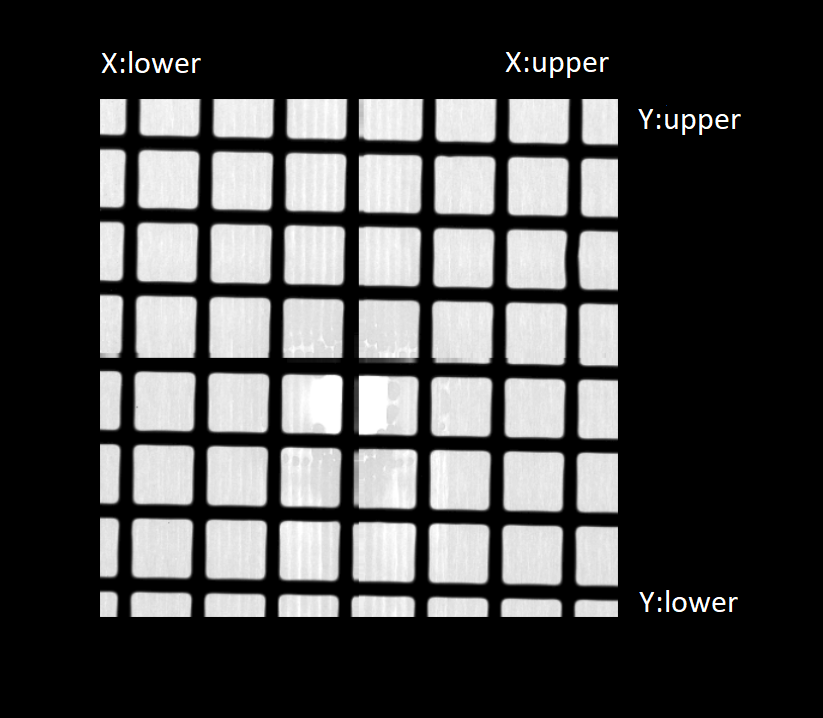
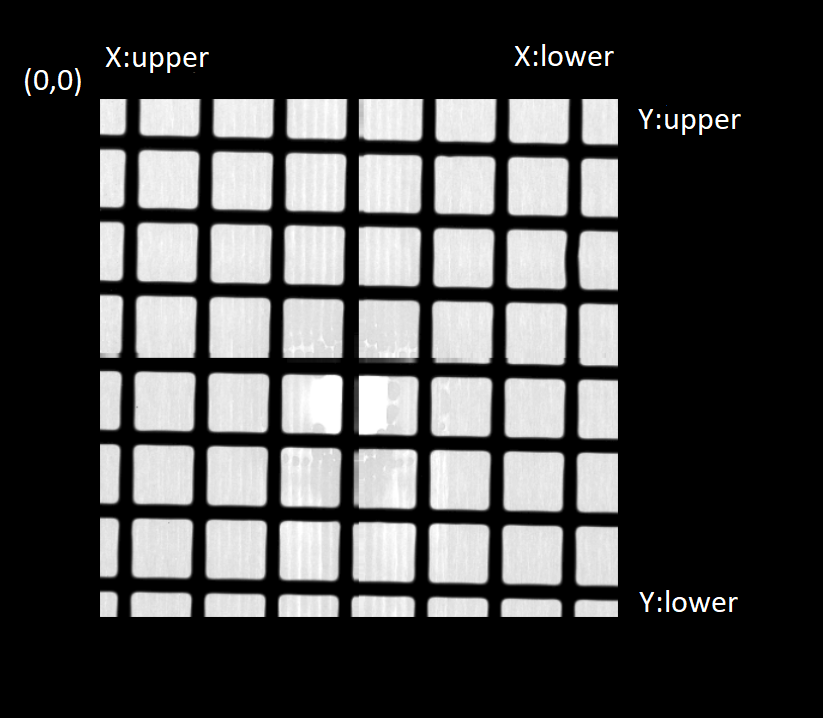
Lower and Upper redone

Changed region(s): [[0.0304, 0.0613, 0.2734, 0.1226], [0.6075, 0.0613, 0.7594, 0.1226]]

diff --git a/readme.md b/readme.md
@@ -64,18 +64,17 @@ Here are some things that are nice to know when reading through the code.
 The examples will mostly be shown in image.
 
 #### Axis
-The Script is written with opencv and the defualt placement of origin is the top left corner of the image.
+The script is written with opencv and the defualt placement of origin is the top left corner of a image.
 
 
 ![!\[Alt text\](XandY.png)](readmeImages/XandYAxis.png)
 ***
 #### Lower and Upper
-Throughout the script upper and lower are mentioned a lot. The first use of upper and lower was done in respective to the y-axis but not value based. It was done by looking at the image. 
+Throughout the script upper and lower are mentioned. The use can be ambiguous depending on what part of the script that is being evaluated. The safest way is to run in debug mode and compare upper and lower thresholds to see orientation used. 
 
-When you look at the bottom of the image and move your eyes up, it was then considered to an upwards movement even though the y value got smaller. That logic did unfortunately not work when looking at the x-axis. 
+When looking at point objects and everything derived from that objects information is done in a specific way. The use of upper and lower was done in respective to the y-axis but not value based. It was done by looking at the image. 
 
-CHECK
-The principle is still the same. When the axis value gets smaller it is considered upper. When the axis value gets larger it is considered lower. 
+When you look at the bottom of the image and move your eyes up, it was then considered to an upwards movement even though the y-value got smaller because of the origin. In case of x-axis the higher x-values are considered lower movement. The following image shows this case.
 
 ![Alt text](readmeImages/UpperAndLower.png)
 ***
@@ -120,7 +119,6 @@ Overview with names:
 Here we will see the general and most important steps of the script in finding the correction to the detector.
 
 #### 1.
-
 First step that happens is reading the images into the script and save as ImageObjects. If more reading methods are needed then add a new .py script in the models folder. The script has to implement the interface ImageReader.py. Afterwards add appropriate element for the new script in the dataObjects/enums/ReaderType.py. 
 Lastly register the new file type in the ReaderFactory.py under models. 
 
